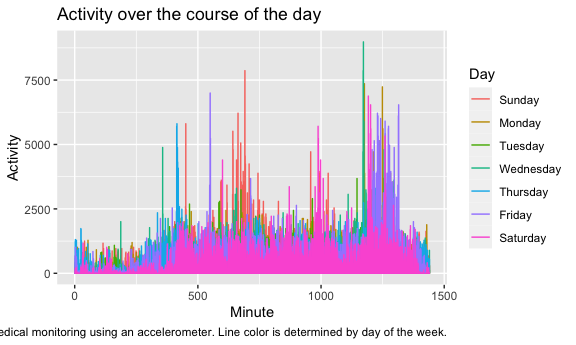
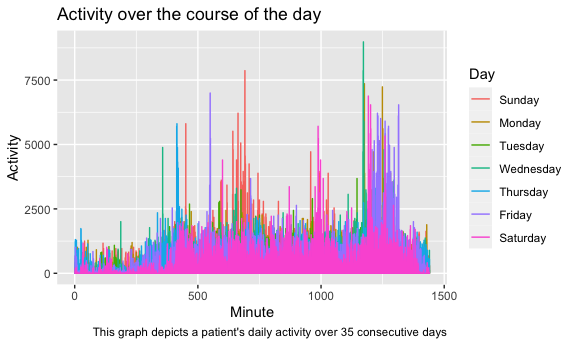
Updated readme file, made formatting changes to graphs

Changed region(s): [[0.0, 0.9275, 0.7812, 0.9855]]

diff --git a/p8105_hw3_cma2226.md b/p8105_hw3_cma2226.md
@@ -11,20 +11,6 @@ global options.
 
 ``` r
 library(tidyverse)
-```
-
-    ## ── Attaching packages ───────────────────────────────────────── tidyverse 1.3.0 ──
-
-    ## ✓ ggplot2 3.3.2     ✓ purrr   0.3.4
-    ## ✓ tibble  3.0.3     ✓ dplyr   1.0.2
-    ## ✓ tidyr   1.1.2     ✓ stringr 1.4.0
-    ## ✓ readr   1.3.1     ✓ forcats 0.5.0
-
-    ## ── Conflicts ──────────────────────────────────────────── tidyverse_conflicts() ──
-    ## x dplyr::filter() masks stats::filter()
-    ## x dplyr::lag()    masks stats::lag()
-
-``` r
 library(p8105.datasets)
 
 knitr::opts_chunk$set(
@@ -40,15 +26,16 @@ Now I will load my data.
 data("instacart")
 ```
 
-Instacart is an online grocery service. Data description is included in
-linked webpage about Instacart. {Data dictionary is available.}
+Instacart is an online grocery service. In New York City, partner stores
+include Whole Foods, Fairway, and The Food Emporium. The Instacart
+Online Grocery Shopping Dataset 2017, used in this question, is an
+anonymized dataset with over 3 million online grocery orders from more
+than 200,000 Instacart users.
 
 This dataset contains 1384617 rows and 15 columns. Observations are at
 the level of items in orders by users. There are user/order variables –
 user ID, order number, order ID, order day, and order hour. There are
 also item variables – name, aisle, department, and some numeric codes.
-{add another sentence or two}. Things to convey have to do with
-structure.
 
 How many aisles, and which are most items from?
 
@@ -86,7 +73,12 @@ instacart %>%
   ) %>%
   ggplot(aes(x = aisle, y = n)) +
   geom_point() +
-  theme(axis.text.x = element_text(angle = 90, vjust = 0.5, hjust = 1))
+  theme(axis.text.x = element_text(angle = 90, vjust = 0.5, hjust = 1)) +
+  labs(
+    title = "Frequency of Items Ordered From Each Aisle",
+    x = "Aisle",
+    y = "Number of Purchased Items"
+  )
 ```
 
 <img src="p8105_hw3_cma2226_files/figure-gfm/plot-1.png" width="90%" />
@@ -169,23 +161,46 @@ accel_data = read_csv("./accel_data.csv") %>%
   mutate(minute = as.numeric(minute)) %>%
   #reorder variables
   select(day_id, day, week, day_type, minute, activity)
+skimr::skim(accel_data)
 ```
 
-    ## Parsed with column specification:
-    ## cols(
-    ##   .default = col_double(),
-    ##   day = col_character()
-    ## )
+|                                                  |             |
+| :----------------------------------------------- | :---------- |
+| Name                                             | accel\_data |
+| Number of rows                                   | 50400       |
+| Number of columns                                | 6           |
+| \_\_\_\_\_\_\_\_\_\_\_\_\_\_\_\_\_\_\_\_\_\_\_   |             |
+| Column type frequency:                           |             |
+| character                                        | 2           |
+| numeric                                          | 4           |
+| \_\_\_\_\_\_\_\_\_\_\_\_\_\_\_\_\_\_\_\_\_\_\_\_ |             |
+| Group variables                                  | None        |
 
-    ## See spec(...) for full column specifications.
+Data summary
 
-``` r
-##Consider reordering variables
-```
+**Variable type: character**
+
+| skim\_variable | n\_missing | complete\_rate | min | max | empty | n\_unique | whitespace |
+| :------------- | ---------: | -------------: | --: | --: | ----: | --------: | ---------: |
+| day            |          0 |              1 |   6 |   9 |     0 |         7 |          0 |
+| day\_type      |          0 |              1 |   7 |   7 |     0 |         2 |          0 |
+
+**Variable type: numeric**
+
+| skim\_variable | n\_missing | complete\_rate |   mean |     sd | p0 |    p25 |   p50 |     p75 | p100 | hist  |
+| :------------- | ---------: | -------------: | -----: | -----: | -: | -----: | ----: | ------: | ---: | :---- |
+| day\_id        |          0 |              1 |  18.00 |  10.10 |  1 |   9.00 |  18.0 |   27.00 |   35 | ▇▇▇▇▇ |
+| week           |          0 |              1 |   3.00 |   1.41 |  1 |   2.00 |   3.0 |    4.00 |    5 | ▇▇▇▇▇ |
+| minute         |          0 |              1 | 720.50 | 415.70 |  1 | 360.75 | 720.5 | 1080.25 | 1440 | ▇▇▇▇▇ |
+| activity       |          0 |              1 | 267.04 | 443.16 |  1 |   1.00 |  74.0 |  364.00 | 8982 | ▇▁▁▁▁ |
 
 The generated plot contains 50400 rows and 6 columns. After cleaning the
 data, remaining columns include a day identifier, day of the week, week
-number, day type (weekday vs weekend), minute, and activity level.
+number, day type (weekday vs weekend), minute, and activity level. The
+“skimr::skim()” code above allows us to assess variable types and
+summary statistics for each. For the activity variable, the mean
+activity level is 267 units. The maximum activity level reported at any
+given minute is 8982 units.
 
 Traditional analyses of accelerometer data focus on the total activity
 over the day. I will now aggregate across minutes to create a total
@@ -196,9 +211,24 @@ activity variable for each day, and create a table showing these totals.
 summ.accel = accel_data %>%
   group_by(day, week) %>%
   summarise(total = sum(activity))
+summ.accel
 ```
 
-    ## `summarise()` regrouping output by 'day' (override with `.groups` argument)
+    ## # A tibble: 35 x 3
+    ## # Groups:   day [7]
+    ##    day     week   total
+    ##    <chr>  <dbl>   <dbl>
+    ##  1 Friday     1 480543.
+    ##  2 Friday     2 568839 
+    ##  3 Friday     3 467420 
+    ##  4 Friday     4 154049 
+    ##  5 Friday     5 620860 
+    ##  6 Monday     1  78828.
+    ##  7 Monday     2 295431 
+    ##  8 Monday     3 685910 
+    ##  9 Monday     4 409450 
+    ## 10 Monday     5 389080 
+    ## # … with 25 more rows
 
 We can investigate trends associated with activity level and day of the
 week by grouping by day of the week and summarizing.
@@ -206,21 +236,37 @@ week by grouping by day of the week and summarizing.
 ``` r
 summ.day = summ.accel %>%
   group_by(day) %>%
-  summarise(total = sum(total))
+  summarise(total = sum(total)) 
+knitr::kable(summ.day)
 ```
 
-    ## `summarise()` ungrouping output (override with `.groups` argument)
+| day       |   total |
+| :-------- | ------: |
+| Friday    | 2291711 |
+| Monday    | 1858699 |
+| Saturday  | 1369237 |
+| Sunday    | 1919213 |
+| Thursday  | 2091151 |
+| Tuesday   | 1799238 |
+| Wednesday | 2129772 |
 
 We can investigate trends associated with activity level and week by
-grouping by week and summarizing
+grouping by week and summarizing.
 
 ``` r
 summ.week = summ.accel %>%
   group_by(week) %>%
   summarise(total = sum(total))
+knitr::kable(summ.week)
 ```
 
-    ## `summarise()` ungrouping output (override with `.groups` argument)
+| week |   total |
+| ---: | ------: |
+|    1 | 2569863 |
+|    2 | 3231718 |
+|    3 | 3224916 |
+|    4 | 1919875 |
+|    5 | 2512649 |
 
 Immediately, we can see that activity levels tend to be highest on
 Fridays and Wednesdays, and lowest on Saturdays and Tuesdays. We can
@@ -241,8 +287,7 @@ plot = accel_data %>%
     title = "Activity over the course of the day",
       x = "Minute",
       y = "Activity",
-      caption = "This graph depicts activity over the course of the day for 35 consecutive days of medical monitoring using an accelerometer. Line color is determined by day of the week."
-  ) +
+      caption = "This graph depicts a patient's daily activity over 35 consecutive days") +
   guides(color = guide_legend("Day"))
 
 plot
@@ -335,18 +380,13 @@ ny_noaa %>%
 reported snowfall amount greater than 0 is 25 mm.
 
 Next I will make a two-panel plot showing the average max temperature in
-January and in July in each station across years. Is there any
-observable / interpretable structure? Any outliers?
+January and in July in each station across years.
 
 ``` r
 data = filter(ny_noaa, month %in% c("1","7")) %>%
   group_by(year, month, id) %>%
   summarise(mean_tmax = mean(tmax, na.rm = TRUE))
-```
 
-    ## `summarise()` regrouping output by 'year', 'month' (override with `.groups` argument)
-
-``` r
 ggplot(data = data, aes(x = year, y = mean_tmax, color = id)) +
   geom_line() +
   facet_grid(~ month) + 
@@ -357,8 +397,6 @@ ggplot(data = data, aes(x = year, y = mean_tmax, color = id)) +
   theme(legend.position = "none") +
   theme(axis.text.x = element_text(angle = 270, vjust = 0.5, hjust = 1))
 ```
-
-    ## Warning: Removed 5640 row(s) containing missing values (geom_path).
 
 <img src="p8105_hw3_cma2226_files/figure-gfm/ggplot_2-1.png" width="90%" />
 
@@ -385,8 +423,8 @@ hex = ggplot(ny_noaa, aes(x = tmax, y = tmin)) +
   geom_hex() + 
   labs(
     title = "Density of Reported Temperature Max and Mins",
-    x = "Maximum daily temperature (C)",
-    y = "Minimum daily temperature (C)")
+    x = "Max daily temp (C)",
+    y = "Min daily temp (C)")
 
 ##generating second plot
 snowfall_plot <- ny_noaa %>%
@@ -396,13 +434,27 @@ snowfall_plot <- ny_noaa %>%
   labs(
     title = "Distribution of Snowfall Values by Year ",
     x = "Year",
-    y = "Snowfall (mm)",
-    caption = "This graph shows the distribution of snowfall values by year, where each box plot corresponds to a given year. Graphed snowfall events are restricted to being greater than 0 and less than 100.") +
+    y = "Snowfall (mm)")
   theme(axis.text.x = element_text(angle = 270, vjust = 0.5, hjust = 1))
-snowfall_plot
 ```
 
-<img src="p8105_hw3_cma2226_files/figure-gfm/ggplot_3-1.png" width="90%" />
+    ## List of 1
+    ##  $ axis.text.x:List of 11
+    ##   ..$ family       : NULL
+    ##   ..$ face         : NULL
+    ##   ..$ colour       : NULL
+    ##   ..$ size         : NULL
+    ##   ..$ hjust        : num 1
+    ##   ..$ vjust        : num 0.5
+    ##   ..$ angle        : num 270
+    ##   ..$ lineheight   : NULL
+    ##   ..$ margin       : NULL
+    ##   ..$ debug        : NULL
+    ##   ..$ inherit.blank: logi FALSE
+    ##   ..- attr(*, "class")= chr [1:2] "element_text" "element"
+    ##  - attr(*, "class")= chr [1:2] "theme" "gg"
+    ##  - attr(*, "complete")= logi FALSE
+    ##  - attr(*, "validate")= logi TRUE
 
 ``` r
 ##creating a two-panel plot using patchwork 
@@ -410,9 +462,7 @@ library(patchwork)
 hex / snowfall_plot
 ```
 
-    ## Warning: Removed 1136276 rows containing non-finite values (stat_binhex).
-
-<img src="p8105_hw3_cma2226_files/figure-gfm/ggplot_3-2.png" width="90%" />
+<img src="p8105_hw3_cma2226_files/figure-gfm/ggplot_3-1.png" width="90%" />
 
 The above graphs show several trends with regard to reported temperature
 maximums and minimums overtime, and the distribution of reported

diff --git a/README.md b/README.md
@@ -1,1 +1,3 @@
 # p8105_hw3_cma2226
+
+These are my solutions for Data Science Homework 3. 
